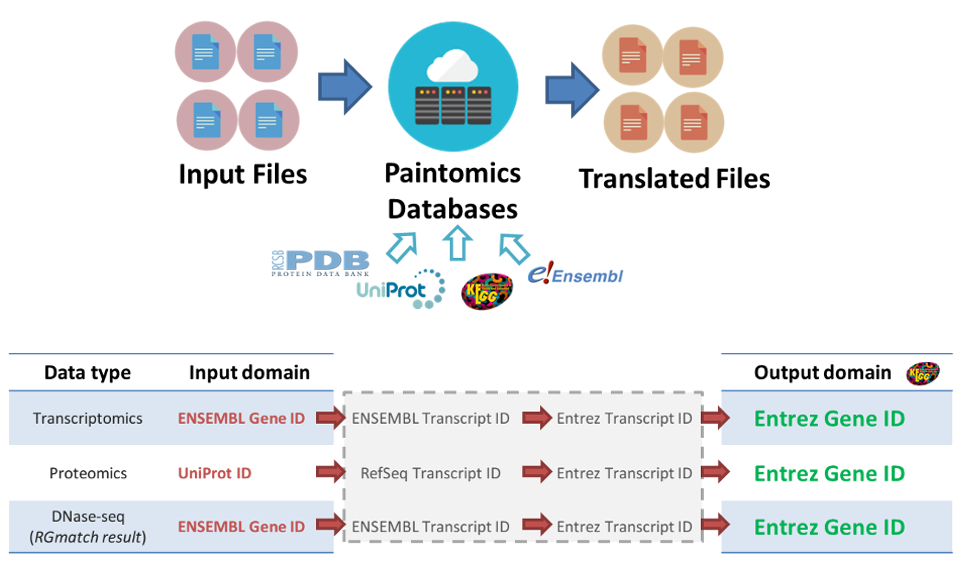
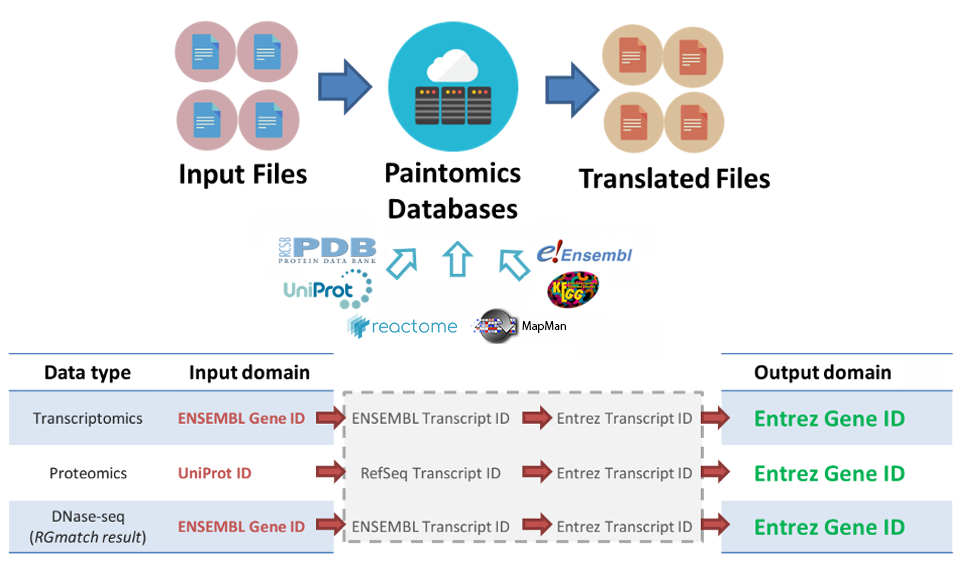
Improve documentation

Changed region(s): [[0.2795, 0.3711, 0.6522, 0.5876], [0.9317, 0.6186, 0.9938, 0.6804]]

diff --git a/docs/4_6_Regulatory_omics.md b/docs/4_6_Regulatory_omics.md
@@ -13,7 +13,7 @@ PaintOmics 3 provided the Regulatory Omics option designed to upload data on fea
     <p class="imageLegend"><b>Figure 1:</b> The pipeline of Regulatory Omics analysis in PaintOmics 4</p>
 </div>
 
-## Input data and parameters
+## Input data, visualisation and parameters
 
 ### Regulators expression and relevant files
 
@@ -26,12 +26,27 @@ Table 1 A shows the example of regulator expression files. The first column must
 
 ### Association and relevant associaiton file
 
-Table 2 shows the example of the association file. The first column contains the feature name of the targeted features (gene name/metabolite name), and the second column contains the identifier of the regulators. This information is usually extracted from popular databases such as miRbase for miRNAs. See above the accepted format for the file.
-The relevant association file is a subset of the association file that could be directly uploaded by the user or automatically selected using correlation (the correlation between targeted features and regulators) in PaintOmics 4. 
+Table 2 shows the example of the association file. The first column contains the identifier of the regulators, and the second column contains the feature name of the targeted features (gene name/metabolite name). This information is usually extracted from popular databases such as miRbase for miRNAs. See above the accepted format for the file.
 
 <div class="imageContainer" style="box-shadow: 0px 0px 20px #D0D0D0; text-align:center; font-size:10px; color:#898989" >
     <img src="paintomics_regulatory_omics_figure3.png"/>
     <p class="imageLegend"><b>Table 2: Example for association file </b> The first column is associated features, and the second column is the regulator.</p>
+</div>
+
+The relevant association file is a subset of the association file that could be directly uploaded by the user or automatically selected using correlation (the correlation between targeted features and regulators) in PaintOmics 4 (Figure 2B). 
+
+<div class="imageContainer" style="box-shadow: 0px 0px 20px #D0D0D0; text-align:center; font-size:10px; color:#898989" >
+    <img src="paintomics_regulatory_omics_figure5.png"/>
+    <p class="imageLegend"><b>Figure 2: the relevant file upload panel (A) and relevant association file upload panel (B)</b></p>
+</div>
+
+### Regulatory omics visualisation
+
+Figure 3A and 3B show the visualisation of the regulatory omics inside the pathway. The feature with a yellow star symbol indicates a relevant association between the feature and its regulators, and the feature with a red symbol indicates that its regulators are significant.
+
+<div class="imageContainer" style="box-shadow: 0px 0px 20px #D0D0D0; text-align:center; font-size:10px; color:#898989" >
+    <img src="paintomics_regulatory_omics_figure4.png"/>
+    <p class="imageLegend"><b>Figure 3: visualisation of the regulatory omics in the main panel (A) and auxiliary panel shows the expression of regulators of the feature (B)</b></p>
 </div>
 
 ### Parameters

diff --git a/docs/4_5_metabolite_class_activity_analysis.md b/docs/4_5_metabolite_class_activity_analysis.md
@@ -4,11 +4,11 @@
 
 # Metabolite class activity analysis
 
-Like the pathway enrichment analysis, the metabolite class activity analysis in PaintOmics 4 is for semi-targeted metabolomics, assessing the hypothesis that a targeted metabolic class is significantly activated. This approach seeks to solve the issue that the input metabolite data are insufficient to map to pathways, leading to a non-significant p-value in the pathway enrichment analysis part.
+Metabolomics experiments might be targeted to one or several metabolite classes for which an assumption of change exists. For example, in experiments evaluating growth, the hypothesis of central carbon metabolites changing their levels may lead to the measurement of this type of compound only. In this scenario, most of the measured entities might show a significant change, which impairs the application of traditional enrichment methods that rely on a non-change background. On the other hand, pathway enrichment for metabolomics data rarely results in significant results as few pathway compounds are frequently successfully measured. 
 
-In metabolite class activity analysis, the input dataset maps to a list of metabolites classes. The proportion of relevant metabolites in each class is compared with the global proportion of relevant metabolites in the input dataset using the binomial test. All classes with significant differences in the binomial test are significantly activated (Figure 1).
+To test the hypothesis of a metabolite class being regulated, PaintOmics 4 implements a Metabolite Class Activity analysis tool, where a binomial test is used to assess the hypothesis of the proportion of significant compounds in a given measured metabolite class being higher than a user-defined threshold (Figure 1). If the user does not define an activity threshold, PaintOmics will use the average percentage of significant metabolites as the threshold for the "Generate automatically". P-values are corrected for multiple testing. These novel metabolomics analysis tools are provided as a separate tab in the main PaintOmics results panel. These visualisation tools enable easy navigation between metabolite data, neighbouring genes and metabolic pathways.
 
 <div class="imageContainer" style="box-shadow: 0px 0px 20px #D0D0D0; text-align:center; font-size:10px; color:#898989" >
     <img src="metabolite_class_activity_analysis_1.png"/>
-    <p class="imageLegend"><b>Figure 1:</b> An example of metabolite class activity analysis in PaintOmics 4</p>
+    <p class="imageLegend"><b>Figure 1: metabolite class activity analysis pipline in PaintOmics 4.</b> DEM: Differentially Expressed Metabolite.</p>
 </div>

diff --git a/docs/8_step_by_step.md b/docs/8_step_by_step.md
@@ -17,7 +17,9 @@ However, before starting to use the application you must choose between starting
 
 The main page shows a data uploading form with 2 sections. In the first one a combobox (**Figure 1.A**) is provided to allow you to select the organism from an alphabetically ordered list, supporting partial filtering by writing in it. If the species is not present you can use the link to request it and we will install it as soon as possible.
 
-The second section contains two parts. In the right one (**Figure 1.B**) you can enter the input data for each omic to include in the analysis. For doing so the "Browse" button opens a menu with 3 options:
+The second section allows you to select analysis databases (**Figure 1.B**). For some species, more than one database might be available.
+
+The third section contains two parts. In the right one (**Figure 1.D**) you can enter the input data for each omic to include in the analysis. For doing so the "Browse" button opens a menu with 3 options:
 
 1. **Upload file from my PC**: conventional approach to select the file from your computer.
 2. **Use a file from 'My data'**: only available for registered users. Read more at <a href="http://paintomics.readthedocs.io/en/latest/2_2_cloud_drive/" target="_blank">Cloud Drive</a> section.
